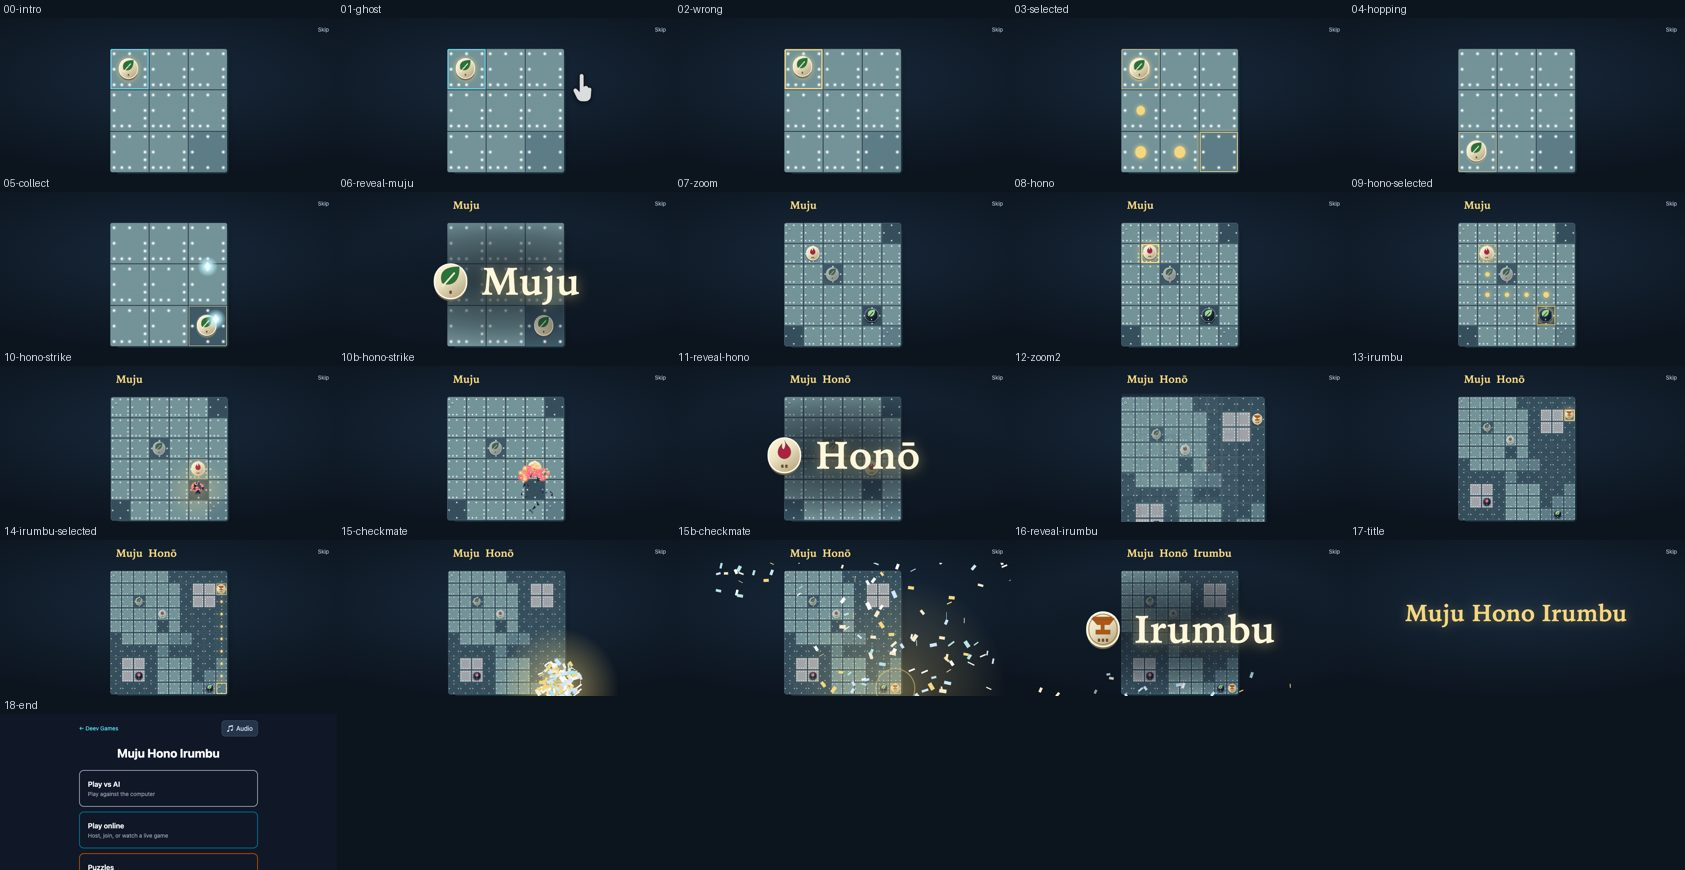
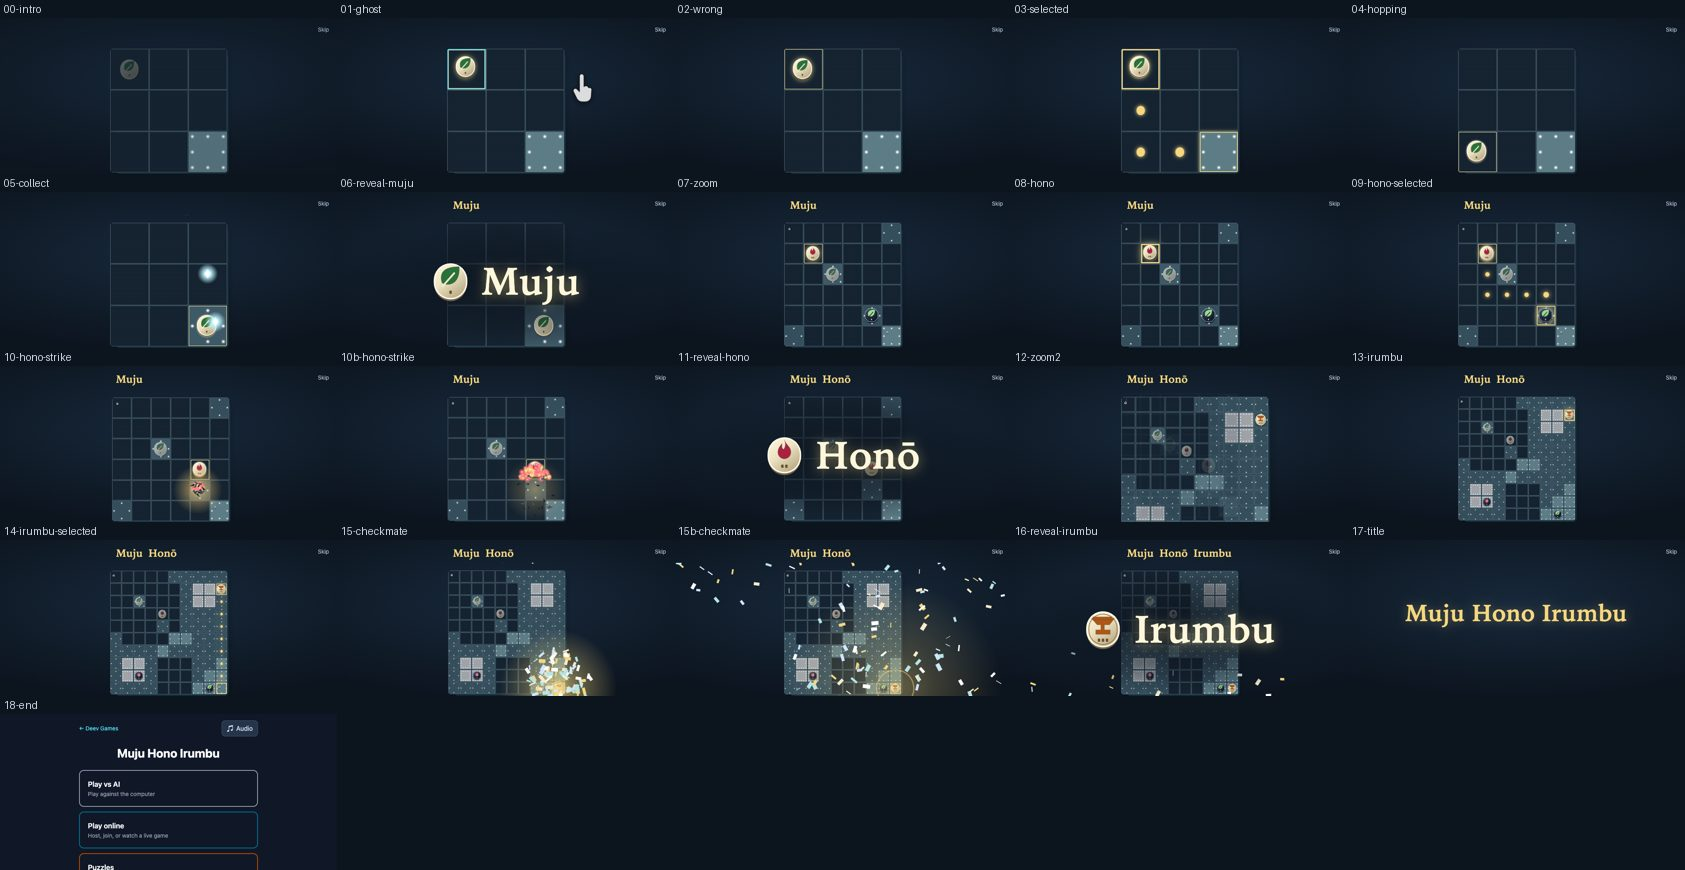
Give tutorial boards only their listed crystals
createEmptyBoard starts every square at 10, and the scenario builder only
overwrote the listed reserves, so the 3x3 showed lights on every square.
Zero the board first; a test pins every square to the scenario's reserves.

diff --git a/muju/tests/onboarding/scenarios.test.ts b/muju/tests/onboarding/scenarios.test.ts
@@ -21,6 +21,17 @@ describe('onboarding scenarios', () => {
     }
   });
 
+  it('places crystals only where the scenario lists them; puzzle 1 has one reserve of 8 in the far corner', () => {
+    for (const scenario of SCENARIOS) {
+      const state = buildScenarioState(scenario);
+      for (const cell of state.board.cells.flat()) {
+        const listed = scenario.reserves.find(r => r.x === cell.position.x && r.y === cell.position.y)?.crystals ?? 0;
+        expect(cell.resourceLayers).toBe(listed);
+      }
+    }
+    expect(buildScenarioState(muju).board.cells.flat().map(c => c.resourceLayers)).toEqual([0, 0, 0, 0, 0, 0, 0, 0, 8]);
+  });
+
   it('puzzle 1: the Muju reaches the far corner with exactly the whole turn and mines from 8 crystals', () => {
     const state = buildScenarioState(muju);
     const unit = getUnitById(state.board, activeUnitId(muju))!;

diff --git a/muju/src/onboarding/scenarios.ts b/muju/src/onboarding/scenarios.ts
@@ -86,6 +86,8 @@ export const unitId = (piece: Pick<ScenarioPiece, 'id' | 'owner'>) => `tutorial-
 export function buildScenarioState(scenario: Scenario): GameState {
   const { size } = scenario;
   const board = createEmptyBoard(size);
+  // `createEmptyBoard` fills every square; a scenario's reserves are the only crystals.
+  for (const row of board.cells) for (const cell of row) cell.resourceLayers = 0;
   for (const { x, y, crystals } of scenario.reserves) board.cells[y][x].resourceLayers = crystals;
   board.initialResourceLayers = board.cells.flat().map(cell => cell.resourceLayers);
   board.units = scenario.pieces.map((piece): Unit => ({
